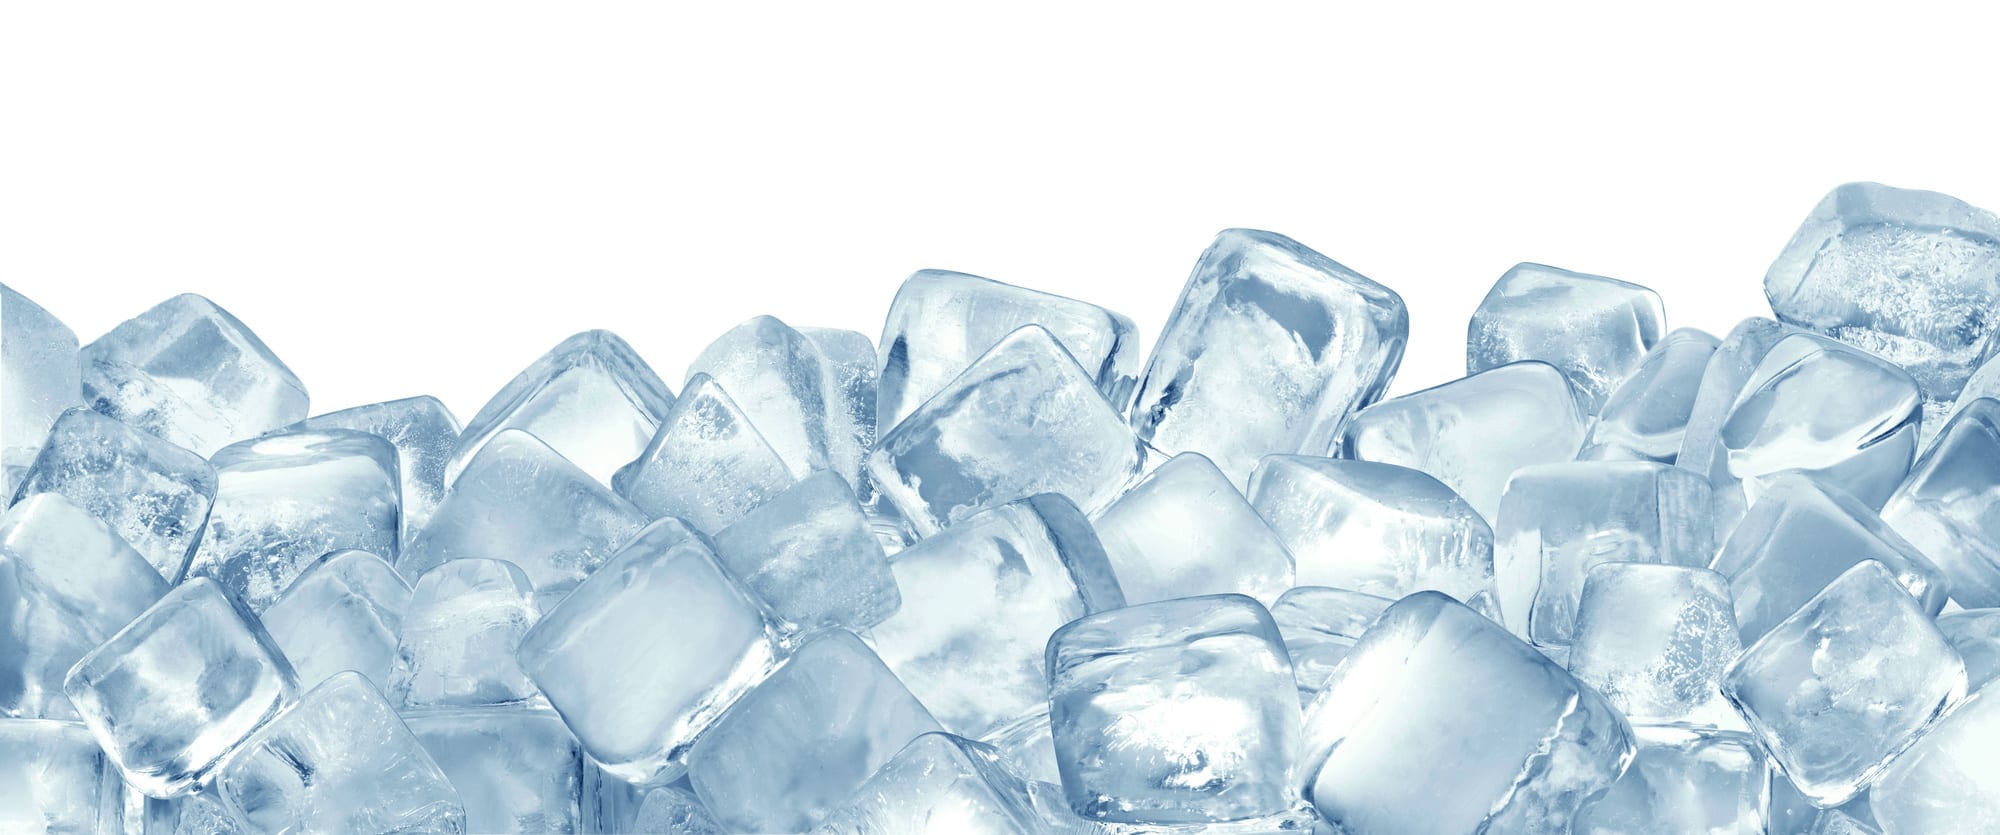
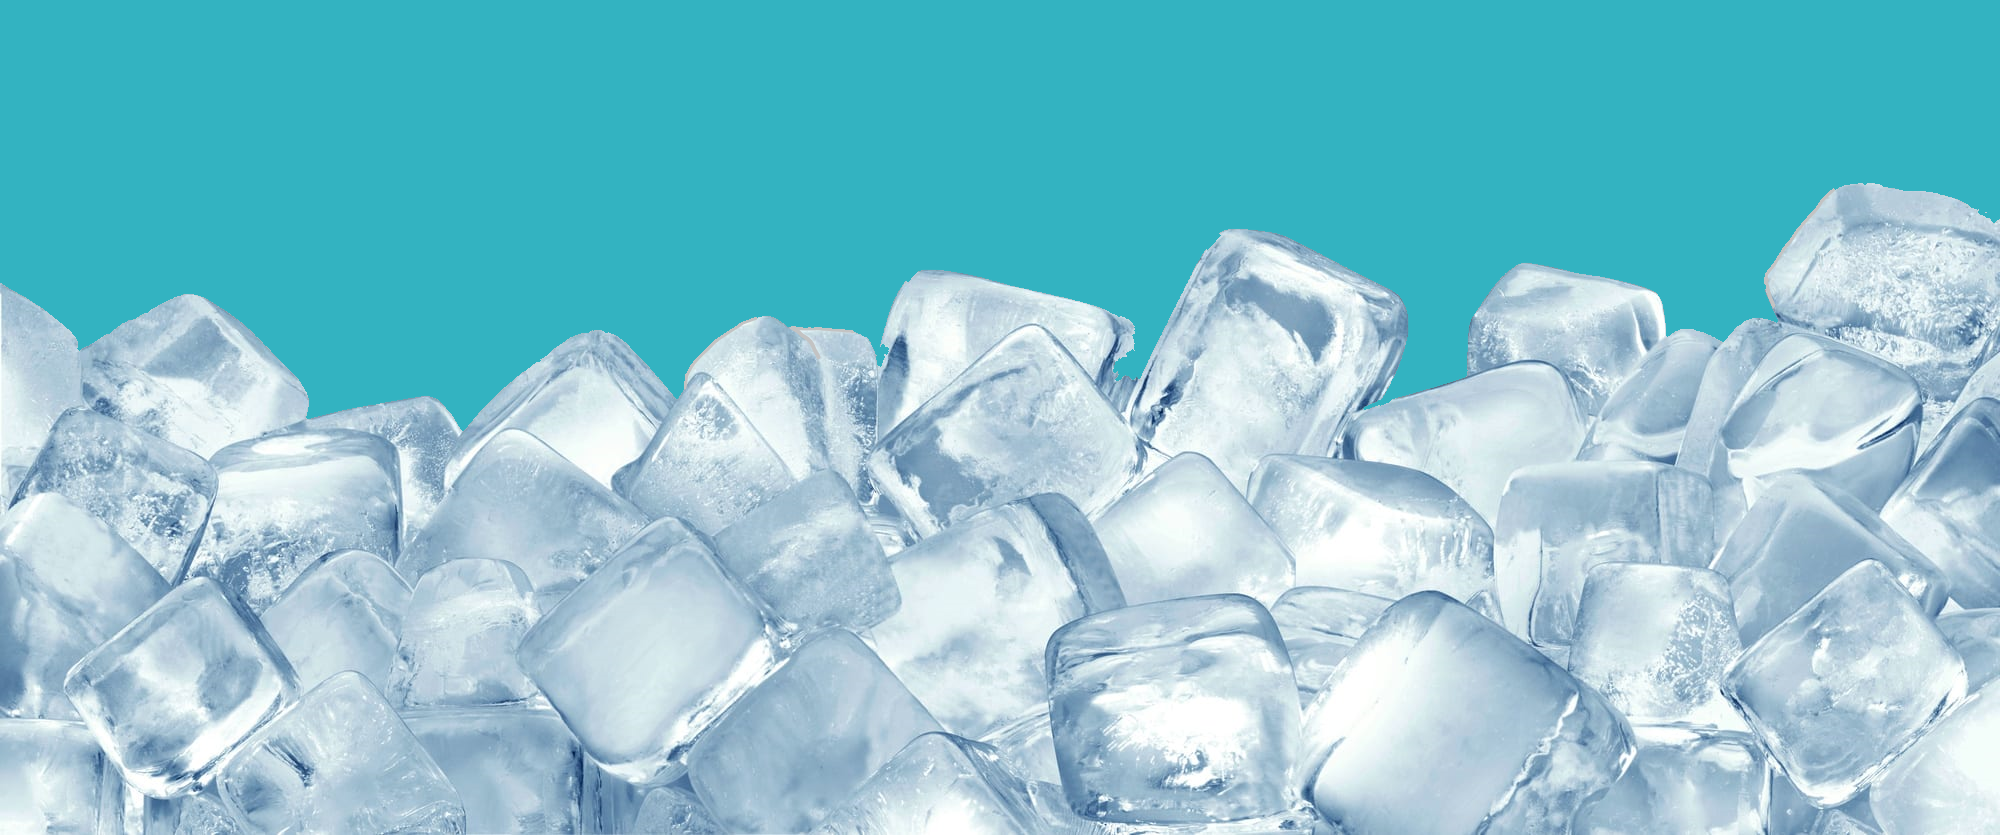
nonstop homepage css

diff --git a/nonstop_site/styles/style.css b/nonstop_site/styles/style.css
@@ -1,0 +1,122 @@
+@import url('https://fonts.googleapis.com/css2?family=Carter+One&family=Englebert&display=swap');
+
+#content {
+    max-width: 1800px;
+    margin: 0 auto;
+
+}
+nav a {
+    text-align: center;
+    text-decoration: none;
+    color: #001400;
+    padding: 35px;
+    font-size: x-large;
+}
+nav {
+    display: flex;
+    justify-content: space-around;
+}
+header {
+    background-color: #2364AA;
+    font-family: "Carter One", Helvetica, Arial;
+    display: grid;
+    grid-template-columns: 150px auto;
+}
+.logo {
+    width: 100px;
+    height: 80px;
+    
+}
+#logo_link {
+    padding-top: 5px;
+    justify-self: center;
+    align-self: center;
+}
+#hero_msg h1 {
+    text-align: center;
+    padding-top: 100px;
+    font-family: "Carter One";
+    font-size: 50px;
+}
+#hero {
+    display: grid;
+    grid-template-columns: 1fr 3fr 1fr;
+    margin-top: -100px;
+}
+#hero_box {
+    grid-column: 1/4;
+    grid-row: 1/3;
+    z-index: -1;
+}
+#hero_img {
+    align-self: center;
+    box-sizing: border-box;
+    width: 100%;
+}
+#hero_msg {
+    grid-column: 2/3;
+    grid-row: 1/2;
+    margin-top: 100px;
+}
+.button_box {
+    text-align: center;
+    padding-top: 50px;
+    font-family: "Englebert";
+}
+.buy {
+    background-color: #76DAE5;
+    border-radius: 5px;
+    text-decoration: none;
+    color: #001400;
+    font-size: 18px;
+    padding: 15px 30px;
+    margin-top: 50px;
+    
+}
+#background {
+    background-color: #33B3C1;
+}
+body {
+    background-color: #33B3C1;
+}
+.home_grid {
+    display: grid;
+    grid-template-columns: 1fr 1fr;
+}
+.workout_img {
+    grid-column: 1/2;
+    grid-row: 2/3;
+    text-align: center;
+}
+.drink_can_img {
+    grid-column: 2/3;
+    text-align: center;
+    padding: 5%;
+}
+.main_txt {
+    font-family: "Englebert";
+    text-align: center;
+    font-size: larger;
+    margin: 10%;
+}
+.sub_txt {
+    font-family: "Englebert";
+    text-align: center;
+    font-size: larger;
+    margin: 10%;
+}
+footer {
+    background-color: #2364AA;
+    text-decoration: none;
+    color: #001400;
+    padding: 25px 50px;
+    margin-top: 200px;
+    display: flex;
+    justify-content: space-around;
+    align-items: center;
+    font-family: "Carter One";
+}
+footer p {
+    font-size: larger;
+    text-decoration: none;
+}

diff --git a/nonstop_site/index.html b/nonstop_site/index.html
@@ -4,6 +4,7 @@
     <meta charset="UTF-8">
     <meta http-equiv="X-UA-Compatible" content="IE=edge">
     <meta name="viewport" content="width=device-width, initial-scale=1.0">
+    <link rel="stylesheet" href="styles/style.css">
     <title>Nonstop</title>
 </head>
 <body>
@@ -16,7 +17,7 @@
             <a href="index.html">Home</a>
             <a href="flavors.html">Flavors</a>
             <a href="buy.html">Buy</a>
-            <a href="contactus.html">Contact Us</a>
+            <a href="troll.html">Contact Us</a>
         </nav>
     </header>
     <div id="hero">
@@ -24,9 +25,9 @@
             <img id="hero_img" src="images/ice.png" alt="Ice">
         </div>
         <section id ="hero_msg">
-            <h4>Want to feel unstopable?</h4>
+            <h1>Want to feel unstopable?</h1>
             <div class="button_box">
-                <a class="Buy" href="buy.html">Try it now</a>
+                <a class="buy" href="buy.html">Try it now</a>
             </div>
         </section>
     </div>
@@ -49,14 +50,14 @@
 
             </p>
         </section>
-        <section class="drink_can_img">
+        <section class="workout_img">
             <img id="workout" src="images/workout.png" alt="workout">
         </section>
     </main>
     <footer>
         <p>Nonstop &copy; 2022 - Alex Hasen</p>
         <p><a href="site-plan.html">Site Plan</a></p>
-        <p><a href="contactus.html">Contact Us</a></p>
+        <p><a href="troll.html">Contact Us</a></p>
         <div class="social">
             <a href="https://facebook.com" target="_blank">
                 <img src="images/facebook.png" alt="fb icon">
